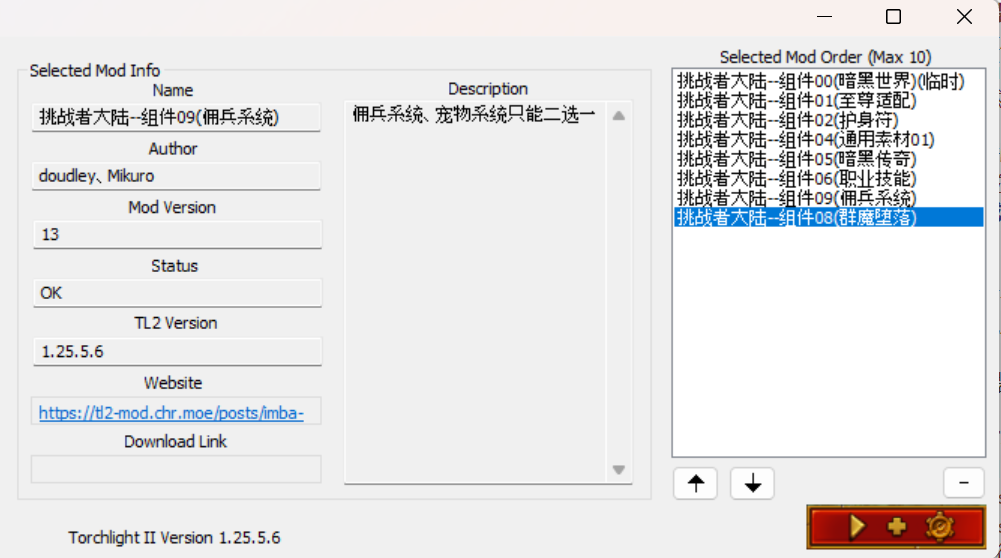
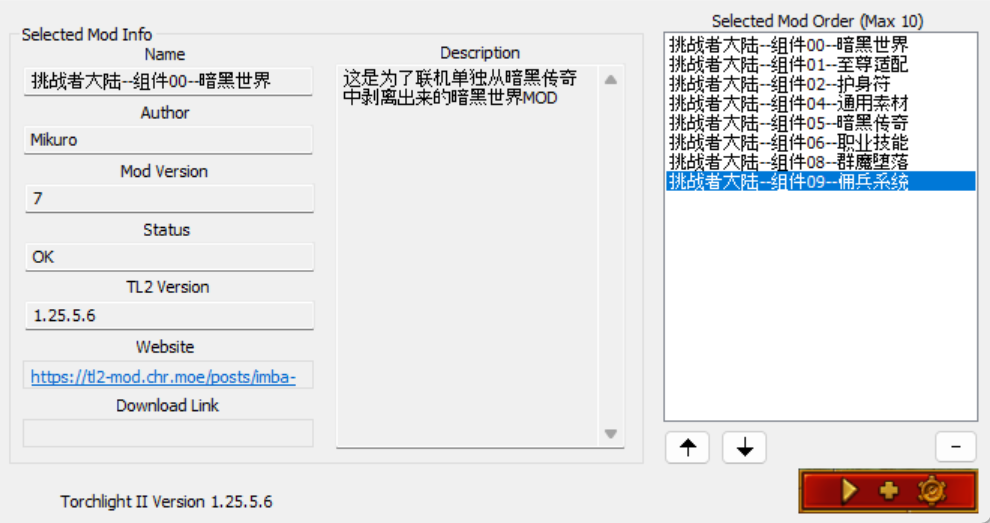
Posts Update

diff --git a/content/posts/imba-mod-challenger-readme.md b/content/posts/imba-mod-challenger-readme.md
@@ -20,20 +20,15 @@ author: "Mikuro"
 - [挑战者下载站-不保证下载速度](https://tl2-mod-download.chr.moe/)
 
 ## 📦文件夹包含内容
-这个不是排序！
-这个不是排序！
-```
-挑战者大陆MOD使用说明.url  
-挑战者大陆MOD配方详细列表.url  
-挑战者大陆--护身符.MOD
-挑战者大陆--佣兵系统.MOD(宠物/佣兵2选1 不要都加载)
-挑战者大陆--宠物系统.MOD(宠物/佣兵2选1 不要都加载)
-挑战者大陆--暗黑世界(临时).MOD(为了联机版本把暗黑世界单体提取出来)
-挑战者大陆--暗黑传奇.MOD
-挑战者大陆--群魔堕落.MOD
-挑战者大陆--职业技能.MOD
-挑战者大陆--至尊适配.MOD
-挑战者大陆--通用素材01.MOD
+挑战者大陆--组件00--暗黑世界.MOD(为了联机版本把暗黑世界单体提取出来)
+挑战者大陆--组件01--至尊适配.MOD
+挑战者大陆--组件02--护身符.MOD
+挑战者大陆--组件04--通用素材.MOD
+挑战者大陆--组件05--暗黑传奇.MOD
+挑战者大陆--组件06--职业技能.MOD
+挑战者大陆--组件08--群魔堕落.MOD
+挑战者大陆--组件09--佣兵系统.MOD(宠物/佣兵2选1 不要都加载)
+挑战者大陆--组件10--宠物系统.MOD(宠物/佣兵2选1 不要都加载)
 ```
 
 ## 💩FAQ
